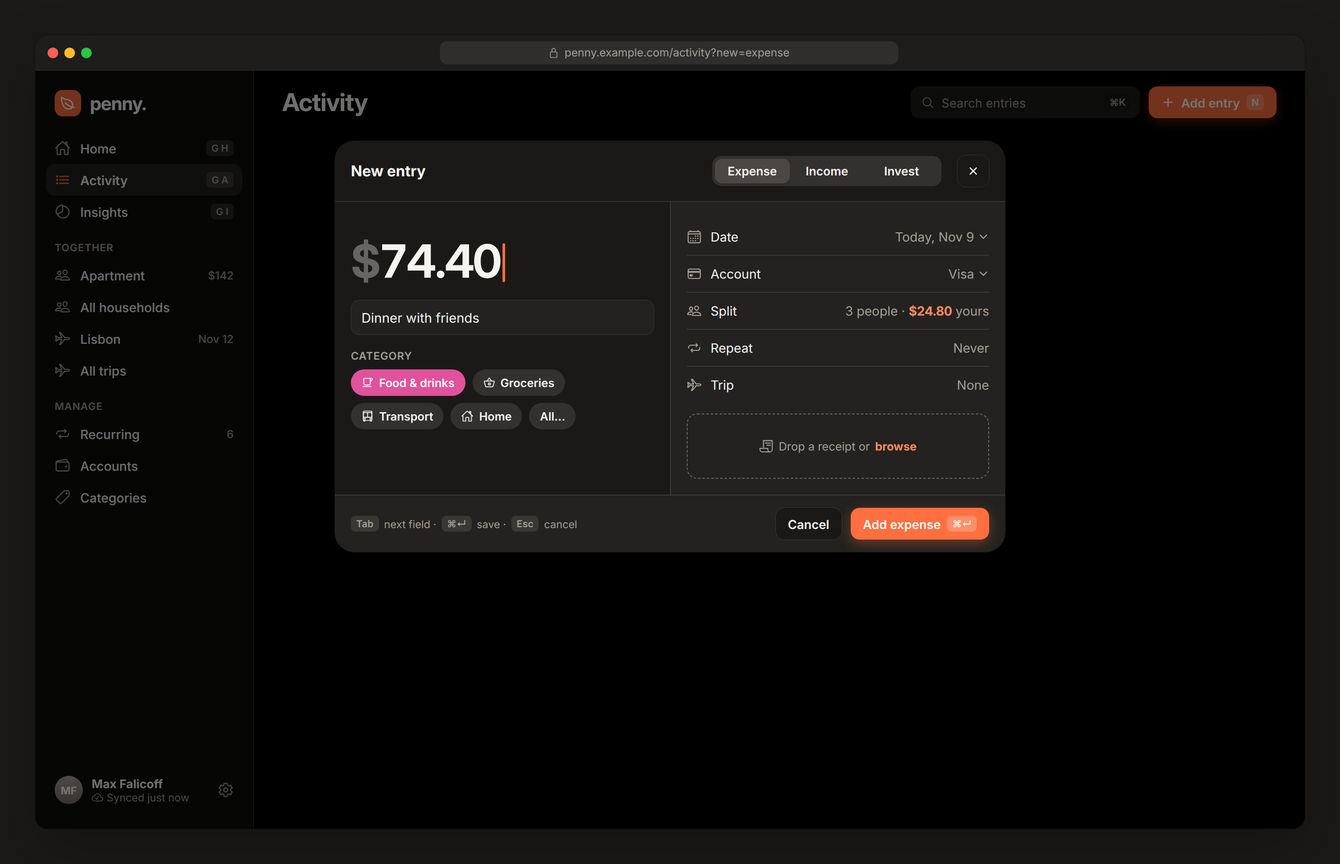
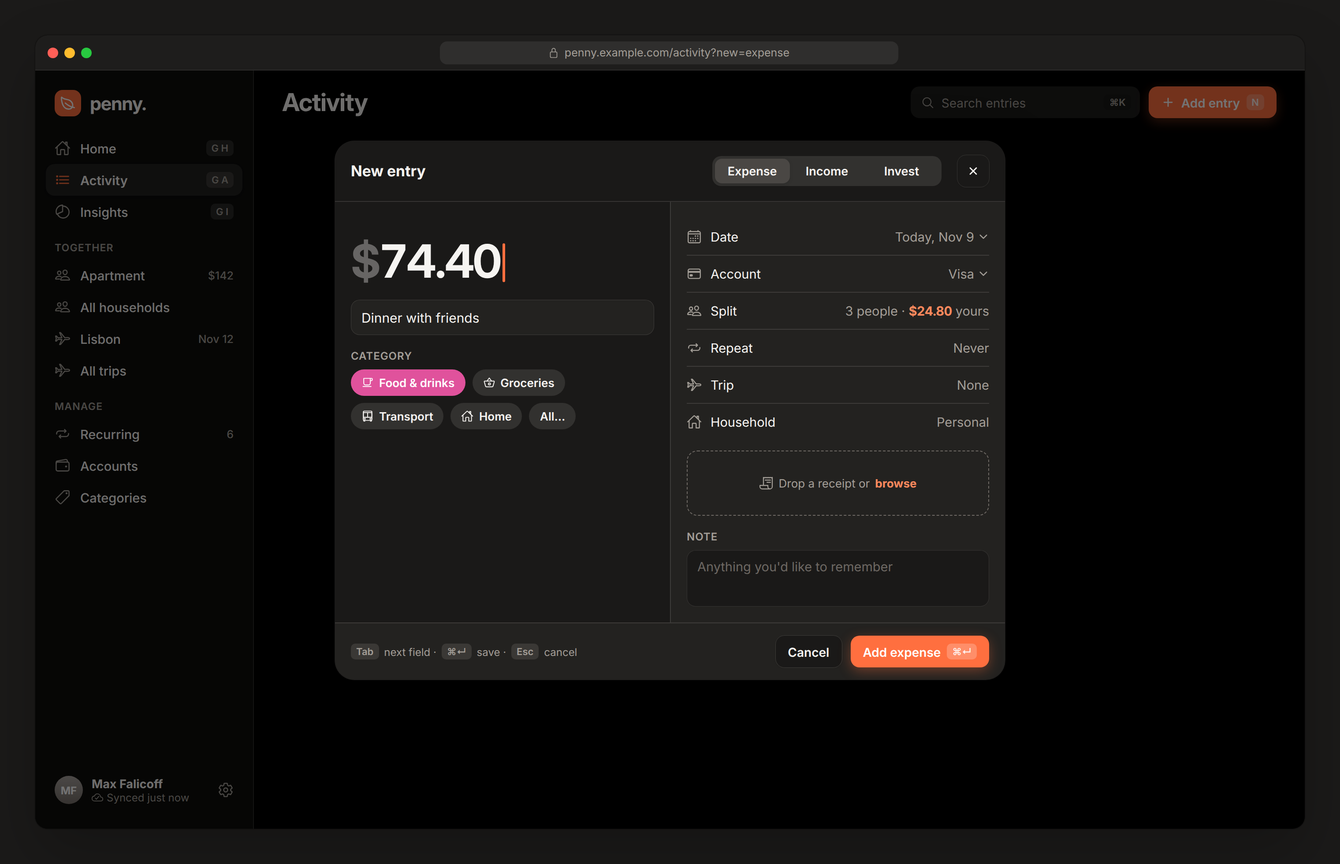
feat(web): add the Household row and the web Note to the Add entry cards
The owner decided where Add entry's Household choice and the web's Note
go. iphone-entry-extras gets a Household row after Trip, ipad-add-entry
and web-add-entry a Household row in their details after Trip, and
web-add-entry a Note field under the receipt drop zone. The web now
draws Household as those rows instead of a field after Note, styles the
desktop Note like the card, and drops the matching follow-up
deviations.

Changed region(s): [[0.25, 0.5602, 0.75, 0.8092], [0.5312, 0.4668, 0.6875, 0.5291], [0.6875, 0.4668, 0.75, 0.498]]

diff --git a/apps/web/src/features/entries/scope.tsx b/apps/web/src/features/entries/scope.tsx
@@ -4,6 +4,7 @@ import { useId } from "react";
 import { householdsQuery } from "../../api/households";
 import type { Household } from "../../api/schemas";
 import { useAccountEmail } from "../../auth/account";
+import { DetailList, DetailRow } from "./EntryParts";
 
 /**
  * What Add entry carries over when it switches between a personal entry and a household's shared
@@ -45,36 +46,63 @@ export const householdLabel = (household: Household) => (household.trip ? `${hou
 
 /**
  * "Household" in Add entry: Personal, or one of the account's households and shared trips. Picking
- * one switches the form in place and keeps what was typed (`seed`).
+ * one switches the form in place and keeps what was typed (`seed`). `row` draws it as the cards'
+ * Household row (after Trip on `iphone-entry-extras`, `ipad-add-entry` and `web-add-entry`), with the
+ * hint read by assistive technology only; the default is a labelled field with a visible hint.
  */
-export function HouseholdField({ scope, seed }: { scope: HouseholdScope; seed: () => EntrySeed }) {
+export function HouseholdField({ scope, seed, variant = "field", chevron }: { scope: HouseholdScope; seed: () => EntrySeed; variant?: "field" | "row"; chevron?: "down" | "forward" }) {
   const id = useId();
   const hint = useId();
   const chosen = scope.households.find((household) => household.id === scope.current);
+  const hintText = chosen ? `Shared with ${chosen.name}: everyone there sees the full amount, and only your share counts in your spending.` : "Choose a household to split this expense with its members.";
+  const select = (
+    <select
+      id={id}
+      className={variant === "row" ? "entry-row__select" : undefined}
+      value={scope.current ?? ""}
+      aria-describedby={hint}
+      onChange={(event) => {
+        const value = event.currentTarget.value;
+        scope.onChoose({ householdId: value || null }, seed());
+      }}
+    >
+      <option value="">Personal</option>
+      {scope.households.map((household) => (
+        <option key={household.id} value={household.id}>
+          {householdLabel(household)}
+        </option>
+      ))}
+      {/* A household not in the list (still loading, or opened from its own page) stays selected. */}
+      {scope.current && !chosen ? <option value={scope.current}>This household</option> : null}
+    </select>
+  );
+  if (variant === "row") {
+    // The hint sits inside the row, so the rows' separators (`.entry-row + .entry-row`) still apply.
+    return (
+      <DetailRow icon="home" label="Household" htmlFor={id} {...(chevron ? { chevron } : {})}>
+        {select}
+        <span id={hint} className="visually-hidden">
+          {hintText}
+        </span>
+      </DetailRow>
+    );
+  }
   return (
     <div className="form-field">
       <label htmlFor={id}>Household</label>
-      <select
-        id={id}
-        value={scope.current ?? ""}
-        aria-describedby={hint}
-        onChange={(event) => {
-          const value = event.currentTarget.value;
-          scope.onChoose({ householdId: value || null }, seed());
-        }}
-      >
-        <option value="">Personal (just me)</option>
-        {scope.households.map((household) => (
-          <option key={household.id} value={household.id}>
-            {householdLabel(household)}
-          </option>
-        ))}
-        {/* A household not in the list (still loading, or opened from its own page) stays selected. */}
-        {scope.current && !chosen ? <option value={scope.current}>This household</option> : null}
-      </select>
+      {select}
       <span id={hint} className="form-hint">
-        {chosen ? `Shared with ${chosen.name}: everyone there sees the full amount, and only your share counts in your spending.` : "Choose a household to split this expense with its members."}
+        {hintText}
       </span>
     </div>
+  );
+}
+
+/** The Household row in its own inset list, as `iphone-entry-extras` draws it under Trip. */
+export function HouseholdRowList(props: { scope: HouseholdScope; seed: () => EntrySeed }) {
+  return (
+    <DetailList>
+      <HouseholdField {...props} variant="row" chevron="forward" />
+    </DetailList>
   );
 }

diff --git a/apps/web/src/features/entries/EntryForm.tsx b/apps/web/src/features/entries/EntryForm.tsx
@@ -35,7 +35,7 @@ import {
 } from "./model";
 import { addLabel, AmountHero, CategoryChips, DateRowInput, DetailList, DetailRow, EntryDialog, isMac, KindControl, repeatText, useEntryLayout } from "./EntryParts";
 import { CategoryPickerDialog, NewAccountDialog } from "./pickers";
-import { HouseholdField, type EntrySeed, type HouseholdScope } from "./scope";
+import { HouseholdField, HouseholdRowList, type EntrySeed, type HouseholdScope, type ScopeChoice } from "./scope";
 import { useLedgerWriter, type LedgerWriter } from "./writer";
 
 /** `tripId` starts a new expense on that trip (MAZ-93: Trip expense), apart from any kept draft. */
@@ -368,19 +368,19 @@ function EntryForm({
     />
   );
 
-  const household = householdScope ? (
-    <HouseholdField
-      scope={{
-        ...householdScope,
-        onChoose: (choice, next) => {
-          // The shared form takes over what was typed, so the kept draft can't come back as a duplicate.
-          draftStore.clear(email);
-          householdScope.onChoose(choice, next);
+  const householdProps = householdScope
+    ? {
+        scope: {
+          ...householdScope,
+          onChoose: (choice: ScopeChoice, next: EntrySeed) => {
+            // The shared form takes over what was typed, so the kept draft can't come back as a duplicate.
+            draftStore.clear(email);
+            householdScope.onChoose(choice, next);
+          },
         },
-      }}
-      seed={() => seedFrom(draft, ledger)}
-    />
-  ) : null;
+        seed: () => seedFrom(draft, ledger),
+      }
+    : null;
 
   const rows = (
     <DetailList>
@@ -433,6 +433,7 @@ function EntryForm({
               {tripSelect}
             </DetailRow>
           ) : null}
+          {householdProps ? <HouseholdField {...householdProps} variant="row" {...(layout === "tablet" ? { chevron: "forward" as const } : {})} /> : null}
           {expense && layout === "tablet" ? (
             <button type="button" className="entry-row entry-row--button" aria-expanded={receiptOpen} aria-controls={ids.receipt} onClick={() => { setReceiptOpen((open) => !open); }}>
               <Icon name="receipt" size={18} />
@@ -542,6 +543,7 @@ function EntryForm({
           </div>
           {errorText("trip")}
         </fieldset>
+        {householdProps ? <HouseholdRowList {...householdProps} /> : null}
         <section className="entry-section">
           <label htmlFor={ids.note} className="entry-label">
             Note
@@ -549,7 +551,6 @@ function EntryForm({
           {noteField("Anything you'd like to remember")}
           {errorText("note")}
         </section>
-        {household ? <section className="entry-section">{household}</section> : null}
       </div>
     ) : null;
 
@@ -606,7 +607,6 @@ function EntryForm({
           {noteField("Anything you'd like to remember")}
           {errorText("note")}
         </section>
-        {household ? <section className="entry-section">{household}</section> : null}
       </>
     );
 

diff --git a/apps/web/tests/households.test.tsx b/apps/web/tests/households.test.tsx
@@ -602,6 +602,23 @@ describe("Add entry with a household", () => {
     await user.selectOptions(within(form).getByLabelText("Household"), await within(form).findByRole("option", { name }));
   }
 
+  it("draws Household as a row between Trip and Note, as iphone-entry-extras does", async () => {
+    seed();
+    serve();
+    const user = userEvent.setup();
+    renderApp("/");
+    const form = await openAdd(user);
+    await user.click(within(form).getByRole("button", { name: /^Receipt, repeat, trip/ }));
+    const household = await within(form).findByRole("combobox", { name: "Household" });
+    expect(household).toHaveValue("");
+    expect(within(household).getByRole("option", { name: "Personal" })).toBeInTheDocument();
+    expect(household).toHaveAccessibleDescription("Choose a household to split this expense with its members.");
+    const trip = within(form).getByRole("group", { name: "Trip" });
+    const note = within(form).getByLabelText("Note");
+    expect(trip.compareDocumentPosition(household) & Node.DOCUMENT_POSITION_FOLLOWING).toBeTruthy();
+    expect(household.compareDocumentPosition(note) & Node.DOCUMENT_POSITION_FOLLOWING).toBeTruthy();
+  });
+
   it("sends a new expense to a household from Add entry, keeping what was typed", async () => {
     const id = seed();
     const fetchMock = serve();
@@ -639,7 +656,7 @@ describe("Add entry with a household", () => {
     const shared = await screen.findByRole("form", { name: "New expense" });
     await within(shared).findByRole("group", { name: "Paid by" });
 
-    await user.selectOptions(within(shared).getByLabelText("Household"), "Personal (just me)");
+    await user.selectOptions(within(shared).getByLabelText("Household"), "Personal");
     const personal = await screen.findByRole("form", { name: "New entry" });
     expect(within(personal).queryByRole("group", { name: "Paid by" })).not.toBeInTheDocument();
     expect(within(personal).getByLabelText("Amount (CAD)")).toHaveValue("12");

diff --git a/docs/design/penny-ios/web/add-entry.html b/docs/design/penny-ios/web/add-entry.html
@@ -22,6 +22,7 @@
   .drow [data-i] { width: 17px; height: 17px; color: var(--label-2); }
   .drow .v { margin-left: auto; color: var(--label-2); display: flex; align-items: center; gap: 4px; }
   .drow .v b { color: var(--tint-text); }
+  .note { height: 64px; border-radius: 10px; background: var(--surface); box-shadow: inset 0 0 0 .5px var(--separator); padding: 10px 12px; font-size: 14.5px; color: var(--label-3); }
   .drop { margin-top: 12px; height: 74px; border-radius: 12px; border: 1.5px dashed var(--label-3); display: grid; place-items: center; font-size: 13px; color: var(--label-2); }
 </style></head>
 <body class="canvas">
@@ -50,7 +51,10 @@
         <div class="drow"><i data-i="people"></i>Split<span class="v">3 people · <b class="num">$24.80</b> yours</span></div>
         <div class="drow"><i data-i="repeat"></i>Repeat<span class="v">Never</span></div>
         <div class="drow"><i data-i="airplane"></i>Trip<span class="v">None</span></div>
+        <div class="drow"><i data-i="home"></i>Household<span class="v">Personal</span></div>
         <div class="drop"><span style="display:flex;gap:6px;align-items:center"><i data-i="receipt" style="width:16px;height:16px"></i>Drop a receipt or <b style="color:var(--tint-text)">browse</b></span></div>
+        <div class="lab">Note</div>
+        <div class="note">Anything you'd like to remember</div>
       </div>
     </div>
     <div class="mf"><span class="hint"><kbd>Tab</kbd> next field · <kbd>⌘↵</kbd> save · <kbd>Esc</kbd> cancel</span><span style="flex:1"></span><span class="btn">Cancel</span><span class="btn primary">Add expense <kbd>⌘↵</kbd></span></div>

diff --git a/docs/design/penny-ios/iphone/entry-extras.html b/docs/design/penny-ios/iphone/entry-extras.html
@@ -29,6 +29,7 @@
   .opt + .opt::before { content: ""; position: absolute; top: 0; left: 48px; right: 0; border-top: .5px solid var(--separator); }
   .opt [data-i] { width: 20px; height: 20px; color: var(--label-2); }
   .opt .ck { margin-left: auto; color: var(--tint); --sw: 48px; }
+  .opt .v { margin-left: auto; color: var(--label-2); display: flex; align-items: center; gap: 4px; }
   .note { margin: 0 14px; border-radius: var(--r-card); background: var(--surface); padding: 14px 16px; height: 84px; font-size: 16px; color: var(--label-3); }
 </style></head>
 <body class="canvas">
@@ -61,6 +62,9 @@
       <div class="opt"><i data-i="close"></i>No trip<i data-i="checkmark" class="ck"></i></div>
       <div class="opt"><i data-i="airplane"></i>Lisbon trip</div>
       <div class="opt"><i data-i="airplane"></i>Montréal weekend</div>
+    </div>
+    <div class="list" style="margin-top:14px">
+      <div class="opt"><i data-i="home"></i>Household<span class="v">Personal <i data-i="chevron-forward" class="chev"></i></span></div>
     </div>
 
     <div class="grp-h">Note</div>

diff --git a/docs/design/penny-ios/ipad/add-entry.html b/docs/design/penny-ios/ipad/add-entry.html
@@ -64,6 +64,7 @@
           <div class="opt"><i data-i="people"></i>Split<span class="v">3 ways · <b class="num">$24.80</b> yours</span></div>
           <div class="opt"><i data-i="repeat"></i>Repeat<span class="v">Never <i data-i="chevron-forward" class="chev"></i></span></div>
           <div class="opt"><i data-i="airplane"></i>Trip<span class="v">None <i data-i="chevron-forward" class="chev"></i></span></div>
+          <div class="opt"><i data-i="home"></i>Household<span class="v">Personal <i data-i="chevron-forward" class="chev"></i></span></div>
           <div class="opt"><i data-i="receipt"></i>Receipt<span class="v">Add <i data-i="chevron-forward" class="chev"></i></span></div>
         </div>
         <div class="lbl">Note</div>

diff --git a/apps/web/src/design/entry.css b/apps/web/src/design/entry.css
@@ -801,6 +801,22 @@
   min-height: 84px;
 }
 
+/* The web card's Note: a field like the title's, on the surface beside the grey details pane (MAZ-277). */
+.entry-dialog--desktop .entry-section > .entry-label {
+  padding: 0;
+  font-size: 0.75rem;
+  letter-spacing: 0.04em;
+}
+
+.entry-dialog--desktop .entry-note {
+  min-height: 64px;
+  padding: 10px 12px;
+  border-radius: 10px;
+  background: var(--pk-surface);
+  box-shadow: inset 0 0 0 0.5px var(--pk-separator);
+  font-size: 0.90625rem;
+}
+
 .entry-trips__list {
   display: grid;
   border-radius: 16px;

diff --git a/docs/design/visual-acceptance.md b/docs/design/visual-acceptance.md
@@ -153,6 +153,7 @@ MAZ-215 captured every web card again against a fresh test environment (`npm run
 - **MAZ-224 (2026-11-20).** A person decided the Home, Insights and money flow differences the agents had recorded as approved. The cards changed to include the flow card's accessibility copy: `iphone-money-flow`, `ipad-home`, `web-home` and `web-insights` now show the focus hint "Select a band or label to focus it, again to clear" and Show as a table (re-rendered baselines; the native screens follow as a follow-up). The web matches the cards on the rest, captured again at 402×874, 1194×834 and 1440×900, light and dark: at phone width Money flow is its own screen (`/money-flow`, "From coming in to going out") with the Sankey, opened from the Follow your money card's title; the calendar is a sheet over Home with Close, the month, Today and the selected day's entries; the hero has the cards' short projected line and no "Recorded so far" note; Home shows only the hero, the flow card and Recent on phones and no Recent on desktop; Insights has no money flow on phones, no This month link and no visible "Spending by category" title; and the empty month has no Currency link. The Web adaptations entries for money flow on phones, the calendar, and Home and Insights are removed from redesign.md. What remains on these cards is MAZ-223 and MAZ-235.
 - **MAZ-225 (2026-11-20).** Activity and the entry detail were captured again at 402×874, 1194×834 (with touch, as an iPad) and 1440×900, light and dark, on `iphone-activity`, `iphone-search-empty`, `iphone-entry-detail`, `iphone-delete-confirm`, `ipad-activity` and `web-activity`. The type is one row of chips (All, Expenses, Income, Investments) with the period chip on phones and Filters (type, period, category and day) from 768px; phones have the round filter button above the title and the floating "Search activity" field at the bottom, clear of the tab bar. While searching, the active filters are dark chips with ×, and nothing found offers Search all months and Clear filters under "Nothing matches in October expenses…". The desktop is the card's table (Entry, Account, Split, Amount) with day rows and their totals, Monthly and household badges, Edit and Delete on the hovered or open row, the key hints (↑ ↓, ↵, E, ⌫) and the period's summary ("7 entries · spent … · in …") beside the chips, with the month beside the title and search in the top bar. From 1100px the open entry is a panel beside the list (a pane on a touch tablet, with Delete and Edit at its top). The detail leads with the category tile, the title, "Category · Weekday, Mon D" and the signed amount with "your share of …", then Details (Account, Repeats, Trip, Note) and Split & receipt (Split, Your share, Total, the receipt). Delete confirms with the tile, 'Delete “Title”?', the amount · date · account (or household) line and a stacked Delete over Cancel; a shared expense names the other members and the month it recalculates. What remains is recorded per card: row selection and export, who paid on shared rows, entry times, the iPad pane's split rows, and the tab bar under the phone's search field (a design decision).
 - **MAZ-226 (2026-11-20).** Add entry was captured again at 402×874, 1194×834 (with touch, as an iPad) and 1440×900, light and dark, on `iphone-add-expense`, `iphone-add-income`, `iphone-entry-extras`, `iphone-split`, `iphone-category-picker`, `iphone-shared-expense-add`, `ipad-add-entry` and `web-add-entry`. The amount leads as the large number with the currency symbol faded (green with a plus for income) and the CAD pill on phones and the iPad; the title is a filled field; the chosen category chip is filled with its color (green for income); the type reads Expense, Income, Invest; and Date, Account, Split, Repeat and Trip are labelled rows, with Split reading "3 ways · $24.80 yours" ("3 people" on the web card). From 768px the dialog has two panes: on the web card it is titled New entry with the type beside the title, the receipt drop zone ("Drop a receipt or browse") under the rows and "Tab next field · ⌘↵ save · Esc cancel" with Cancel and Add expense in the footer; on the iPad card close, the type and Add expense share the header, the rows sit under Details with a Receipt row, then Note, and the footer is the key hints. On phones, Receipt, repeat, trip opens Receipt (the file, then Photo and File or PDF), Repeat (Never, Weekly, Monthly, Yearly with its helper), the trip list and Note with its placeholder; income has Repeat ("Monthly on the 15th") and Note rows. Split opens the card's control (All mine, Equally, Amount, Percent), "People, including you" with − and +, and the YOUR SHARE card. The category picker ends with Edit categories, and the shared expense form is titled New expense with the household under it. `iphone-add-expense`, `iphone-add-income` and `iphone-split` keep only the approved web conventions, and `iphone-category-picker` matches. Where the Household choice (and, on the web card, Note) goes is a design decision recorded on `iphone-entry-extras`, `ipad-add-entry` and `web-add-entry`; the rest of the shared expense form is a follow-up. The capture now splits the cards' draft 3 ways, as the cards show.
+- **MAZ-277 (2026-11-22).** The owner decided where Add entry's Household choice and the web's Note go, and the cards changed: `iphone-entry-extras` adds a Household row (Personal, with a chevron) in its own inset list after Trip and before Note, `ipad-add-entry` adds a Household row (Personal ›) to Details after Trip, and `web-add-entry` adds a Household row (Personal) after Trip and a Note field under the receipt drop zone. The web draws Household as those rows (a native select, so the list itself is platform chrome) instead of a labelled field after Note, and was captured again at 402×874, 1194×834 (with touch, as an iPad) and 1440×900, light and dark, on the three cards. The iOS app follows in its own issue: its Household row is still before Date on iPad, and its More details sheet is compared once it has been captured against the new card.
 - **MAZ-228 (2026-11-21).** The shared household screens were captured again at 402×874, 1194×834 (with touch, as an iPad) and 1440×900, light and dark, on `iphone-shared-list`, `iphone-shared`, `iphone-shared-balances`, `iphone-shared-people`, `iphone-record-payment`, `iphone-payment-stale`, `iphone-household-create`, `iphone-history`, `ipad-shared` and `web-household`. Shared has the month's position across everything under the title ("October · you owe $40.00 overall"), a + in the bar, each household and trip as a card with a house or plane tile, avatars, "N members" or short dates ("Nov 2–8") and the balance or Settled with a chevron, then Join with a code and New household as one list with copper titles. A household leads with a centered hero (avatars, the name, "October · you owe" and the amount) with Record payment as the copper button and + Expense beside it; rows read "<payer> paid · split equally" under the month and its total. Balances and People collapse to the bar with the name small and centered (with History and the … menu, which now holds Rename, Remove someone, Archive and Leave); Balances lists each member with an avatar under the month and its Settles, Settled or Overdue tag, then Suggested payments with Record paid (greyed until the month's last day), the clock footnote and each overdue month on its own. People lists members with avatars, the role as text and short dates, then INVITE SOMEONE with the code, the amber countdown and Copy, then former members. Record payment is titled so, with the payer's and receiver's avatars joined by a dashed arrow, the Full share pill and one full-width Mark as paid; the stale state is a red banner with struck-through old values, who changed it and when, and a full-width Review expense. New household has the house tile and a DETAILS group with icons and the currency lock. History is titled History, with the filter chips, a card per day ("TODAY", "FRI, OCT 2"), the actor's avatar with a badge for the kind of change, and the actor and subject in bold. From 1100px the household is the card's expense table with the section chips at the hero's right and the Balances card with Record paid beside it. What remains is members shown by email (MAZ-171), the month pill (MAZ-229), the iPad's split hero, and the shared expense form, recorded per card.
 - **MAZ-230 (2026-11-21).** The trip screens were captured again at 402×874, 1194×834 (with touch, as an iPad) and 1440×900, light and dark, on `iphone-trips`, `iphone-trip-detail`, `iphone-trip-form`, `ipad-trip` and `web-trips`. Every trip screen leads with your share, not "Your spending". On phones the featured trip is one card that opens the trip: the countdown as an amber eyebrow, the name, "Nov 2–8 · 2 people", the members' avatars, Your share so far and a Shared or Personal pill; the rows below show short dates and a plain pill. A shared trip opens with a centered hero: the name, the dates and people, the trip total as the one large number and "trip total · your share" under it. From 1100px (`ipad-trip`) the hero is on the left with the countdown, "shared with N people", Trip total and Your share, People with each member's balance for the trip's month beside it, and Your share by category with bars beside the expenses; a trip's balances open on its own month before or after it. The desktop list (`web-trips`) has one "In 18 days · Shared" pill, Trip total, Your share and You owe, category tiles in the expense table, and four tiles across with the kind, "dates · upcoming" or "· shared" and the amount, without the ALL TRIPS label or the expense count. The trip form has the large name field, WHEN (Starts and Ends as date pills, Currency locked), "flights booked in October still count" naming the month before the trip, and PEOPLE (Share with others, You as Organizer, Invite with a code after saving). `iphone-trips` now matches and `iphone-trip-form` keeps only the approved web dialog. The shared expense rows, the Settled tile and the seed's category colors are follow-ups.
 - **MAZ-231 (2026-11-21).** Settings was captured again at 402×874, 1194×834 (with touch, as an iPad) and 1440×900, light and dark, on `iphone-settings`, `iphone-appearance`, `ipad-settings` and `web-settings`. Phones open Settings like the card’s sheet: a centered title with the copper check that closes it to Home and no tab bar, then the profile card (avatar, the account and its sync state), MANAGE (Recurring and Accounts with their counts, Categories), PREFERENCES (Appearance with its value, Currency with CAD and a lock, and the lock’s reason under the group), SERVER (the host, “Sign out to change servers” and a lock) and a full-width red Sign out. Each section opens with Back and its name centered. On a touch tablet the same groups, without Manage, sit beside the open section, which has its own large title, and the open row is filled copper. On desktop Settings opens on Appearance, beside a plain list (Profile, Appearance, Currency, Server & sync and a red Sign out) with the open row raised in neutral; Appearance shows the theme tiles, Display (with Week starts on as a menu) and Server & sync (version and sign-in methods, “Sign out to change servers”, Last synced). On phones and tablets the theme is three phones side by side with a radio under each and the footnote on what System follows. Account is now Profile (`/settings/profile`). What remains is recorded per card: rows the web can’t offer (Face ID lock, Notifications, Export data), the currency footnote’s reason and “your device’s” (design decisions), Home behind the phone sheet, and names shown as emails (MAZ-171).

diff --git a/.design-sync/NOTES.md b/.design-sync/NOTES.md
@@ -27,6 +27,7 @@
 - **Join a trip on the web (MAZ-263):** `web/trips.html` adds a square key icon button (`.btn.icon`, "Join a trip") beside the Trips title, as `iphone-trips` has the key in its navigation bar. No kit change. Push the card at the next re-sync.
 - **Household month pill and icon fills (MAZ-264, owner decisions):** `iphone/shared.html` and `iphone/shared-balances.html` put the month pill ("November ⌄") after Back in the navigation bar's glass row, as on Home; on Balances the household's name moves to its own small centered row under the bar. `ipad/shared.html` moves its toolbar over both panes with previous, "November 2026 ⌄" and next on the left, as on `ipad-home`. In `assets/icons.js` and `design-kit/src/icons.ts`, the filled parts of create, pricetag, wallet, calendar, alert-circle, ellipsis-horizontal, finger-print (and happy, kit only) now have `fill:currentColor`, so they follow the text color in dark instead of drawing black. The `server` icon's stroked paths have `fill:none` (owner decision), so it draws as an outline. Every baseline was re-rendered. Push the kit's icons and the three cards at the next re-sync.
 - **Currency footnote (MAZ-250, owner decision):** `iphone/settings.html` says "Currency is locked once your ledger has entries." instead of "Currency is locked while you're in a household.", the reason the apps actually check. No kit change. Push the card at the next re-sync.
+- **Household row and web Note in Add entry (MAZ-277, owner decision):** `iphone/entry-extras.html` adds a Household row (Personal ›) in its own inset list after Trip; `ipad/add-entry.html` adds a Household row to Details after Trip; `web/add-entry.html` adds a Household row after Trip and a Note field under the receipt drop zone. No kit change. Push the three cards at the next re-sync.
 - **Drafted cards (MAZ-238):** 35 new cards for screens that had none (18 `iphone/`, `ipad/home-portrait.html`, 16 `web/`), listed in [visual acceptance](../docs/design/visual-acceptance.md#drafted-cards-maz-238-2026-11-22). No kit change: they reuse `penny.css`, `ipad.css`, `web.css`, `web.js` and the existing icons; QR codes, the camera view and the iPad sidebar toggle are drawn in each card. `web/tablet.html` draws its own icon rail instead of the `web.js` sidebar. Push them at the next re-sync, once the owner has approved them.
 - **Move and remove, every category color and icon (MAZ-251, owner decision):** `iphone/account-form.html` replaces the locked "Remove account" row with a "Move them to" picker and a "Move and remove" button (disabled until an account is chosen) over the note "Visa is used by 31 entries and 3 schedules."; `iphone/category-form.html` shows all eight colors (two rows of four) and the 30 icons the apps offer, the card's original 18 first. Both add the Ionicons they need beyond `assets/icons.js` (`chevron-expand`; `car`, `fitness`, `school`, `paw`) in their own script, so the shared assets and the other baselines are unchanged. No kit change. Push the two cards at the next re-sync.
 

diff --git a/apps/web/README.md b/apps/web/README.md
@@ -200,7 +200,7 @@ Code: `src/features/entries/` (the form, its draft rules in `model.ts`, pickers,
 
 **Writes go through the offline store.** Every personal change (an entry, an edit, a delete, and categories or accounts created inline) is a shared-domain `LedgerChange` (`@domain/commands.ts`: `saveEntry`, `deleteEntry`, `saveCategory`, `saveAccount`) handed to `engine.save` (MAZ-87). It is acknowledged once it is in IndexedDB and syncs with `PUT /api/ledger` from there, so saving works offline and survives a reload; the form never calls the API. "Saved on this device. It syncs when you're back online." says when the save didn't reach the server yet, and the row shows Waiting to sync. The demo has no offline store, so Add entry there says it doesn't save entries.
 
-**The form** (New entry, or Edit entry from an entry's detail) follows its cards at each width (MAZ-226, `src/features/entries/EntryParts.tsx`, `src/design/entry.css`): `web-add-entry` from 1100px with a mouse (two panes, the type beside the title, the receipt drop zone under the rows), `ipad-add-entry` on touch tablets and narrower windows (close, the type and the primary button in the header; Details, a Receipt row and Note on the right), and the iPhone cards below 768px (one column, with Receipt, Repeat, Trip, Note and Household under **Receipt, repeat, trip**).
+**The form** (New entry, or Edit entry from an entry's detail) follows its cards at each width (MAZ-226, `src/features/entries/EntryParts.tsx`, `src/design/entry.css`): `web-add-entry` from 1100px with a mouse (two panes, the type beside the title, the receipt drop zone under the rows), `ipad-add-entry` on touch tablets and narrower windows (close, the type and the primary button in the header; Details, a Receipt row and Note on the right), and the iPhone cards below 768px (one column, with Receipt, Repeat, Trip, Household and Note under **Receipt, repeat, trip**). Household is a row after Trip on every card (MAZ-277): in its own inset list on phones, in the details rows on the iPad and web cards.
 
 - Type: Expense, Income or Invest. Changing it keeps what was typed and picks a category of the new type. Investments are money set aside: not spending, but they come out of what's left (`net` in `@domain/summary.ts`).
 - The amount leads as the large number, in the ledger currency (integer cents, up to two decimals, dot or comma; grouped with commas while not being typed), green with a plus for income. Then the Title, and Category: the five most used categories of the type as chips (a radio group, so arrow keys move the choice), the chosen one filled with its color and always visible, and the last chip (**All categories**) for the category picker (`iphone-category-picker`, MAZ-175): a search field, then Most used (up to four categories entries use) and every other category as tiles, with a New tile that adds a category inline, and Edit categories. Income dated after today shows a callout that it counts toward Projected, not Left to spend.
